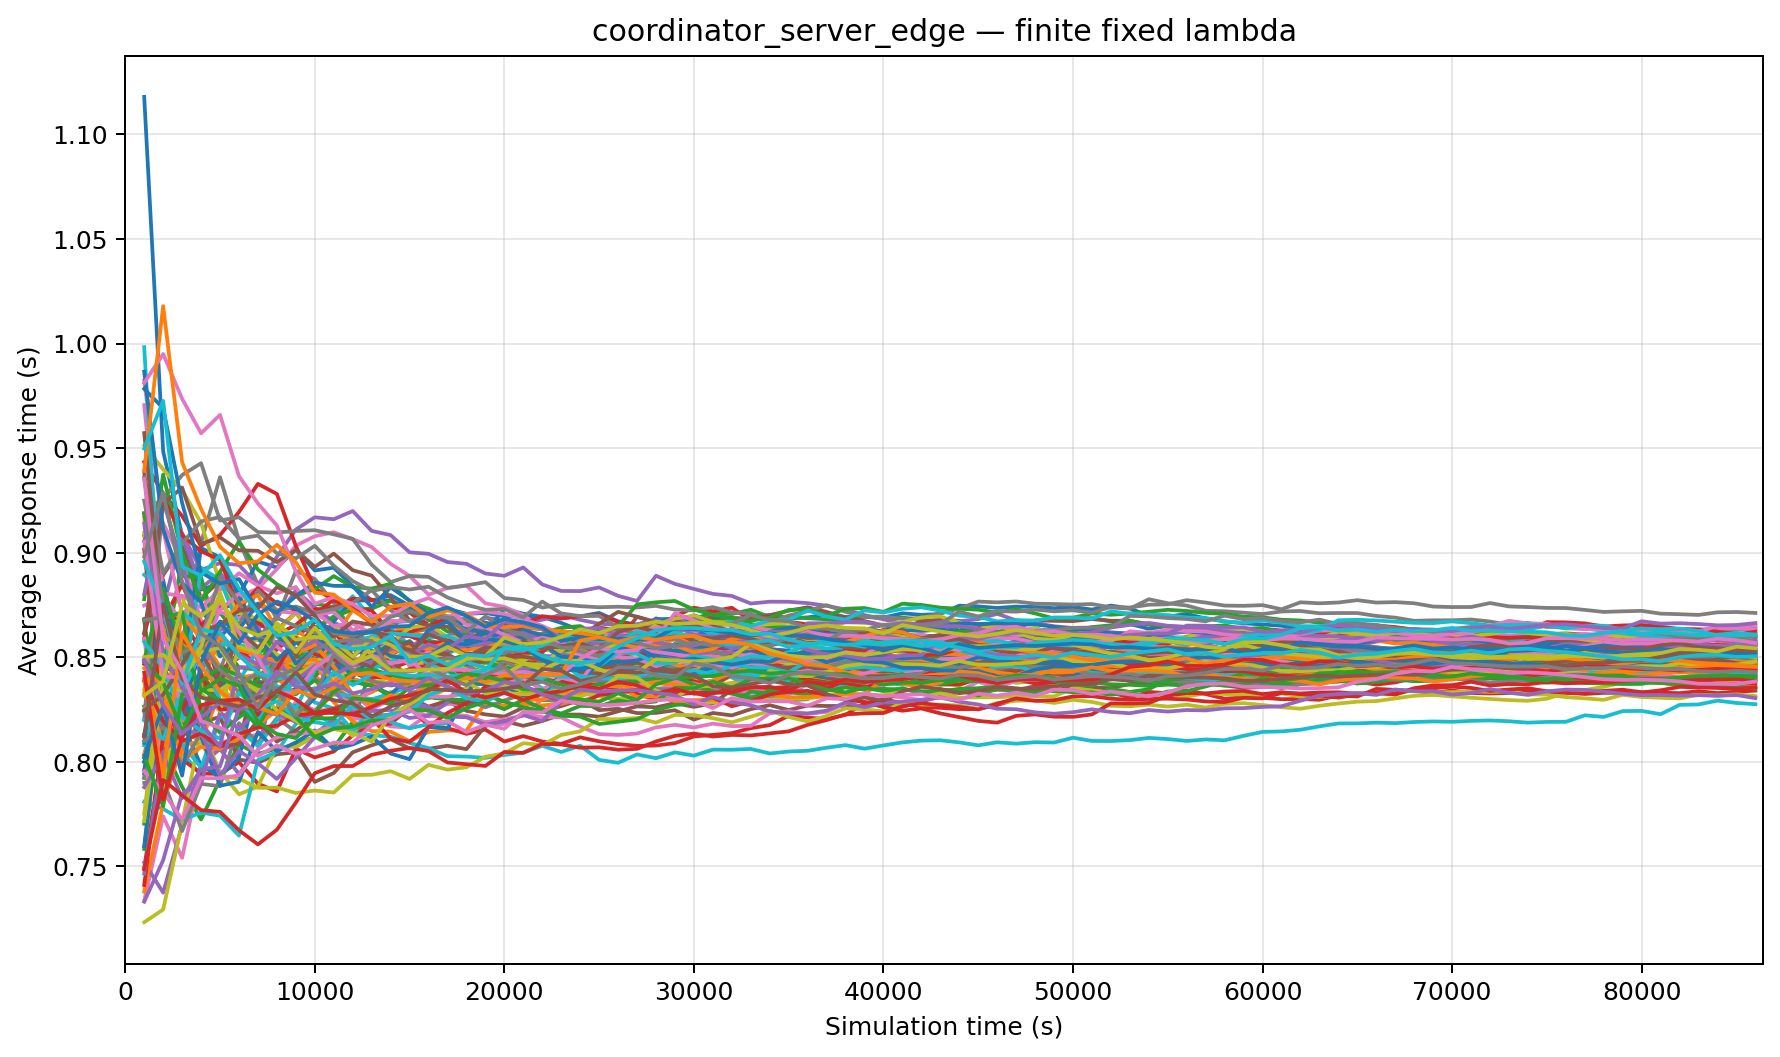
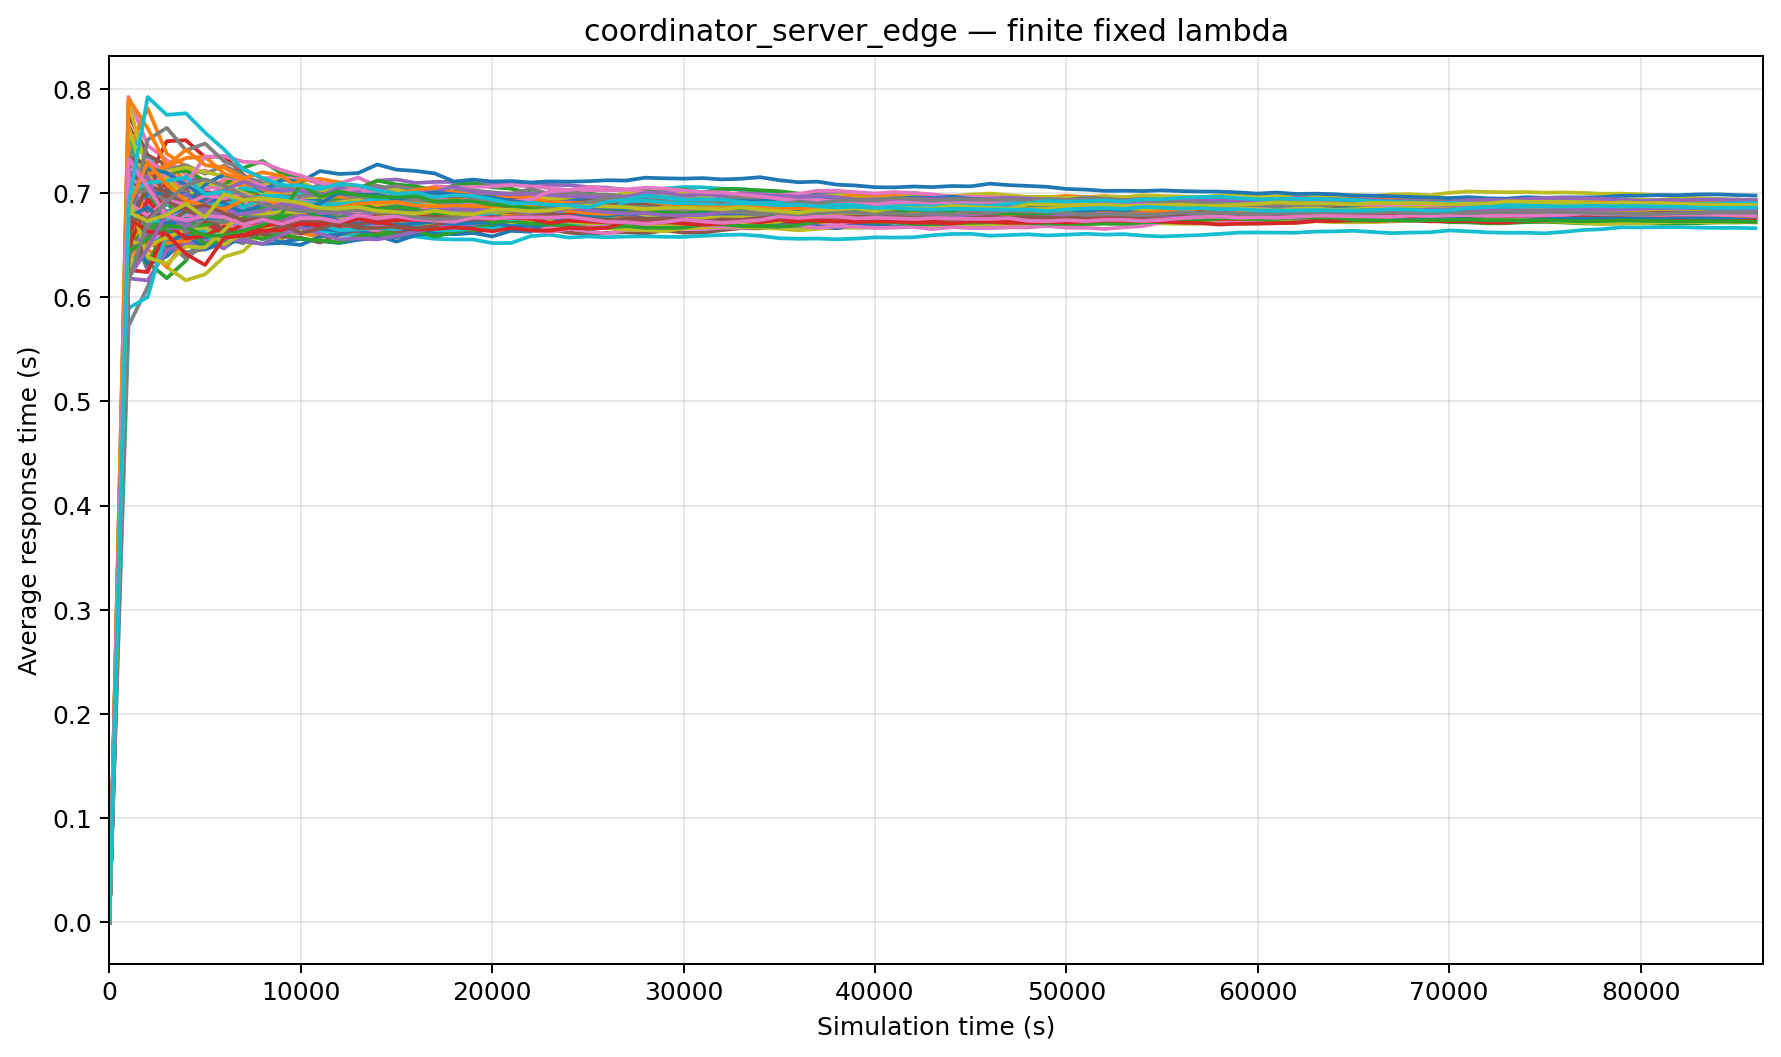
fix finite sim

diff --git a/simulation/simulator.py b/simulation/simulator.py
@@ -137,7 +137,7 @@ def execute(stats, stop, forced_lambda=None):
     # --- Registrazione transiente ogni 1000s (facoltativa/unchanged) ---
     interval = 1000.0
     if not hasattr(stats, "_next_dump"):
-        stats._next_dump = interval
+        stats._next_dump = 0.0
 
     while stats.t.current >= stats._next_dump:
         avg_edge = stats.area_edge.node / stats.index_edge if stats.index_edge > 0 else 0.0
